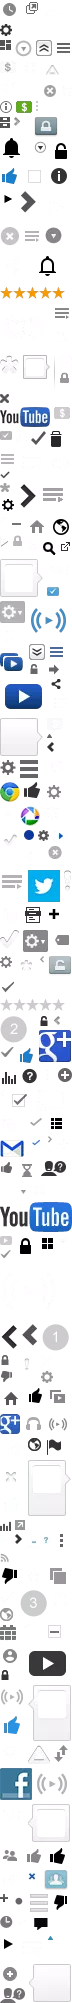
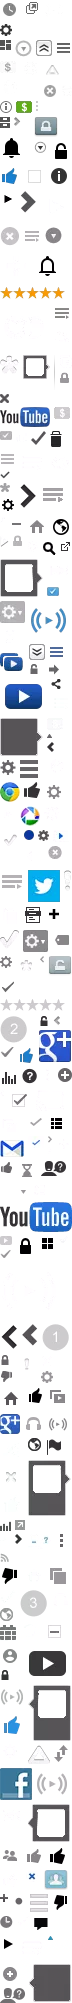
recompiling yt.webp; misc changes

diff --git a/_content.scss b/_content.scss
@@ -9,3 +9,18 @@
 .yt-lockup-title a, .yt-lockup:hover a, .yt-lockup:hover .yt-lockup-meta a, .yt-lockup:hover .yt-lockup-description a {
   color: $title-color-dark !important;
 }
+
+/**
+ * Menu Items
+ */
+a.yt-uix-button-epic-nav-item.partially-selected:hover, button.yt-uix-button-epic-nav-item:hover,
+button.yt-uix-button-epic-nav-item.selected, button.yt-uix-button-epic-nav-item.yt-uix-button-toggled,
+.epic-nav-item:hover, .epic-nav-item.selected, .epic-nav-item.yt-uix-button-toggled, .epic-nav-item-heading {
+  border-color: $text-color-light !important;
+}
+
+a.yt-uix-button-epic-nav-item:hover, a.yt-uix-button-epic-nav-item.selected,
+a.yt-uix-button-epic-nav-item.yt-uix-button-toggled {
+  border-color: $border-color-dark !important;
+  border-bottom: 3px dotted !important;
+}

diff --git a/_config.scss b/_config.scss
@@ -1,3 +1,4 @@
 @mixin sprite($x, $y) {
-  background: no-repeat url(//github.com/StylishThemes/YouTube-Dark/images/yt.webp) $x, $y;
+  background: no-repeat url(//raw.githubusercontent.com/StylishThemes/YouTube-Dark/master/images/yt.webp) $x $y;
+  background-size: auto;
 }

diff --git a/_topbar.scss b/_topbar.scss
@@ -11,5 +11,5 @@
 }
 
 #yt-masthead #logo {
-  @include sprite(0px, -1202px);
+  @include sprite(0, -1202px);
 }
